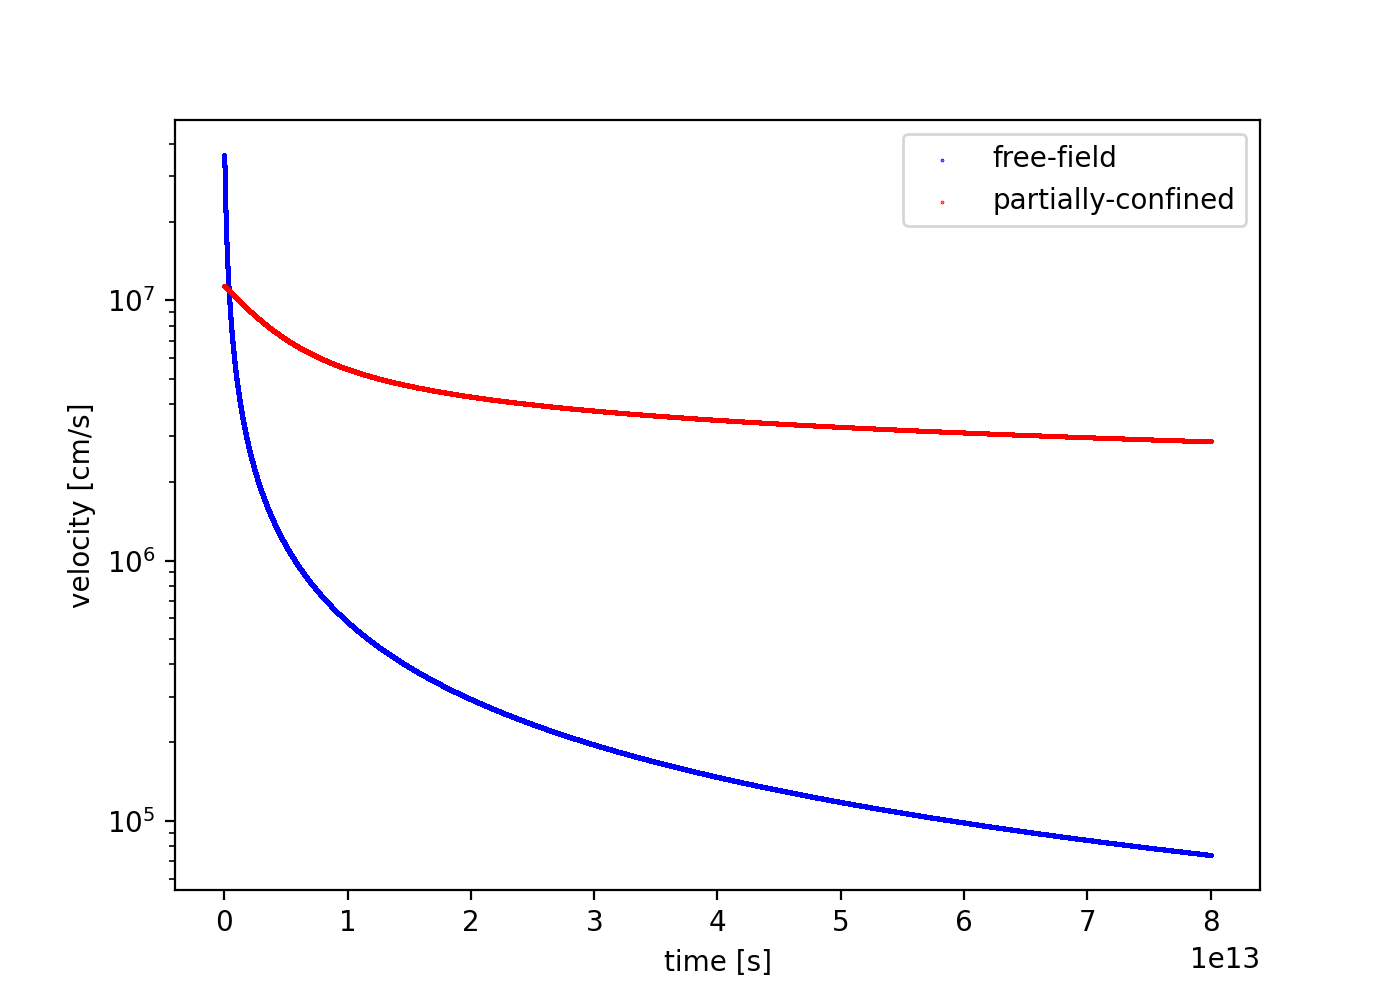
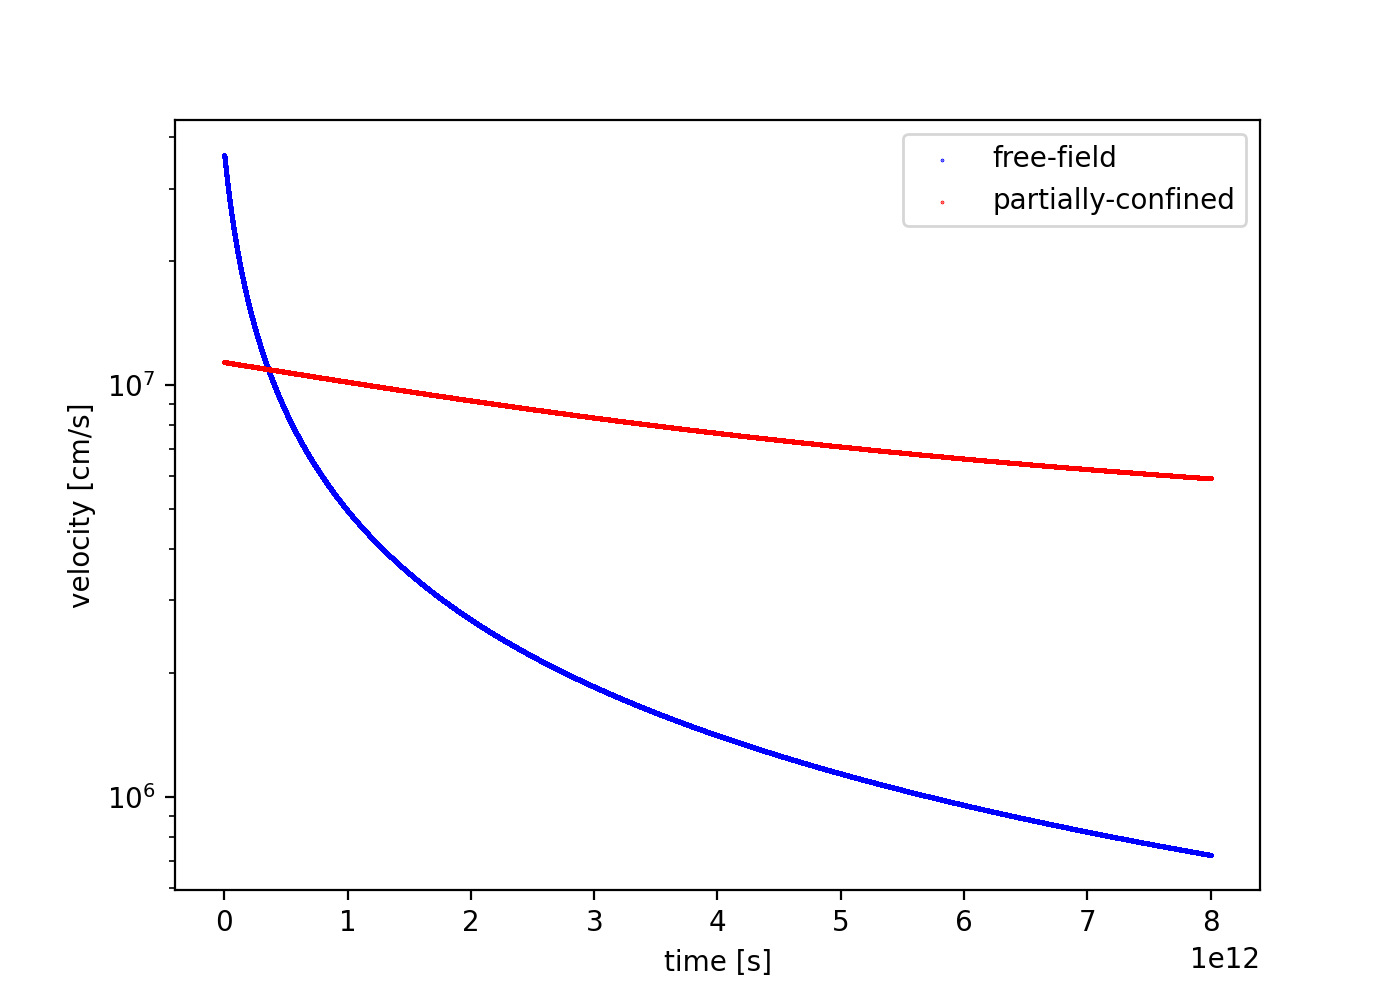
model for cavity_test1_runs

diff --git a/python_scripts/analytical_models/freefield_vented_sn_model.py b/python_scripts/analytical_models/freefield_vented_sn_model.py
@@ -27,7 +27,7 @@ def get_pressure(rho,temp):
 
 # Sedov is a self-similar solution, here we'll put everything in cgs units 
 
-t_end = 8.0E13                  # sim end time 
+t_end = 8E12                  # sim end time 
 dt = 1E7                        # timestep 
 
 r_detect = 8. *3.086e+18        # location of detector 
